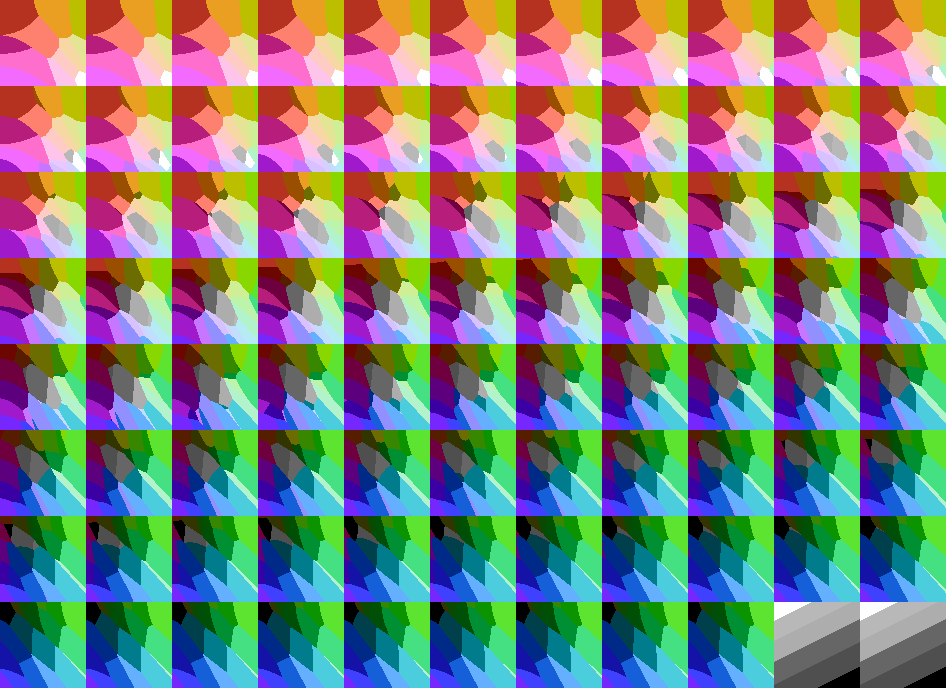
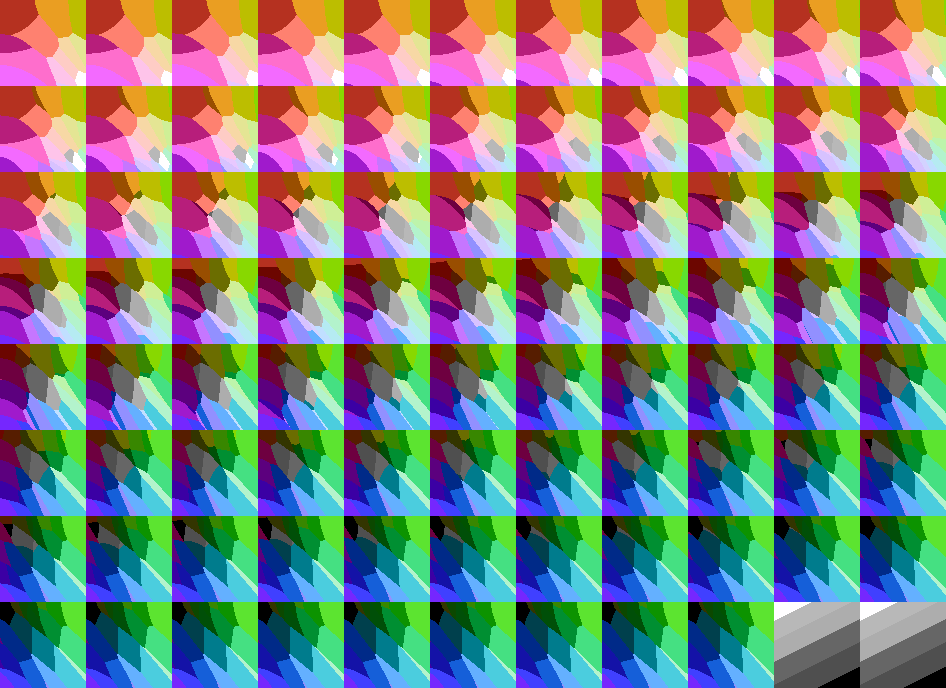
Replace Aspose with Unicolour

diff --git a/CSharpGenerator/CSharpGenerator/PaletteMatchingFunctions.cs b/CSharpGenerator/CSharpGenerator/PaletteMatchingFunctions.cs
@@ -1,4 +1,6 @@
-namespace CSharpGenerator
+using Wacton.Unicolour;
+
+namespace CSharpGenerator
 {
     internal class PaletteMatchingFunctions
     {
@@ -11,10 +13,6 @@
             if (algorithm == "RGB Redmean")
             {
                 return findNearestColorRGBRedmean(oldColor, palette);
-            }
-            if (algorithm == "HSL Difference")
-            {
-                return findNearestColorHSL(oldColor, palette);
             }
             if (algorithm == "Lab Value Difference")
             {
@@ -89,10 +87,9 @@
 
         private static Color findNearestColorLab(Color oldColor, string palette)
         {
-            (double, double, double) labColor = AsposeFunctions.getLabColor(oldColor.R, oldColor.G, oldColor.B);
-            // square root of 100^2 + 255^2 + 255^2
-            double lowestDiff = 374.23;
+            double deltaEMin = 10000; // set to a very high number that any delta can beat
             int colorIndex = 0;
+            Unicolour unicolor = ColorConversionFunctions.getUnicolorFromSystemColor(oldColor);
             Color[] targetPalette = [];
             if (palette == "NES")
             {
@@ -102,47 +99,13 @@
             {
                 targetPalette = GlobalVars.webColors;
             }
+            Unicolour[] comparisonPalette = ColorConversionFunctions.getUnicolorsFromSystemColors(targetPalette);
             for (int i = 0; i < targetPalette.Length; i++)
             {
-                Color compareColor = targetPalette[i];
-                (double, double, double) labCompare = AsposeFunctions.getLabColor(compareColor.R, compareColor.G, compareColor.B);
-                double totalDiff = Math.Sqrt(Math.Pow(labCompare.Item1 - labColor.Item1, 2) + Math.Pow(labCompare.Item2 - labColor.Item2, 2) + Math.Pow(labCompare.Item3 - labColor.Item3, 2));
-                if (totalDiff < lowestDiff)
+                double deltaE = unicolor.Difference(comparisonPalette[i], DeltaE.Cie76);
+                if (deltaE < deltaEMin)
                 {
-                    lowestDiff = totalDiff;
-                    colorIndex = i;
-                }
-            }
-
-            return targetPalette[colorIndex];
-        }
-
-        private static Color findNearestColorHSL(Color oldColor, string palette)
-        {
-            double hue = oldColor.GetHue();
-            double saturation = oldColor.GetSaturation();
-            double lightness = oldColor.GetBrightness();
-            double highestAverageDiff = Math.Sqrt(3);
-            int colorIndex = 0;
-            Color[] targetPalette = [];
-            if (palette == "NES")
-            {
-                targetPalette = GlobalVars.mesenColors;
-            }
-            if (palette == "Web Colors")
-            {
-                targetPalette = GlobalVars.webColors;
-            }
-            for (int i = 0; i < targetPalette.Length; i++)
-            {
-                Color compare = targetPalette[i];
-                double hueDiff = Math.Min(Math.Abs(compare.GetHue() - hue), 360 - Math.Abs(compare.GetHue() - hue)) / 180;
-                double satDiff = Math.Abs(compare.GetSaturation() - saturation);
-                double lightDiff = Math.Abs(compare.GetBrightness() - lightness);
-                double diffSum = Math.Sqrt(hueDiff * hueDiff + satDiff * satDiff + lightDiff * lightDiff);
-                if (diffSum < highestAverageDiff)
-                {
-                    highestAverageDiff = diffSum;
+                    deltaEMin = deltaE;
                     colorIndex = i;
                 }
             }

diff --git a/CSharpGenerator/CSharpGenerator/ColorConversionFunctions.cs b/CSharpGenerator/CSharpGenerator/ColorConversionFunctions.cs
@@ -1,0 +1,31 @@
+using System.Drawing;
+using Wacton.Unicolour;
+
+namespace CSharpGenerator
+{
+    internal class ColorConversionFunctions
+    {
+        public static Unicolour getUnicolorFromSystemColor(Color color)
+        {
+            return new Unicolour(ColourSpace.Rgb255, color.R, color.G, color.B);
+        }
+
+        public static Unicolour[] getUnicolorsFromSystemColors(Color[] colors)
+        {
+            List<Unicolour> unicolors = new List<Unicolour>();
+            foreach(Color color in colors)
+            {
+                unicolors.Add(getUnicolorFromSystemColor(color));
+            }
+
+            return unicolors.ToArray();
+        }
+
+        public static Color getSaturatedColor(float h, float s, float l)
+        {
+            Unicolour unicolor = new Unicolour(ColourSpace.Hsl, h, s, l);
+            Rgb255 rgb = unicolor.Rgb.Byte255;
+            return Color.FromArgb(rgb.R, rgb.G, rgb.B);
+        }
+    }
+}

diff --git a/CSharpGenerator/CSharpGenerator/FormMain.Designer.cs b/CSharpGenerator/CSharpGenerator/FormMain.Designer.cs
@@ -131,7 +131,7 @@
             // 
             comboBoxAlgorithm.DropDownStyle = ComboBoxStyle.DropDownList;
             comboBoxAlgorithm.FormattingEnabled = true;
-            comboBoxAlgorithm.Items.AddRange(new object[] { "RGB Euclidean", "RGB Redmean", "HSL Difference", "Lab Value Difference" });
+            comboBoxAlgorithm.Items.AddRange(new object[] { "RGB Euclidean", "RGB Redmean", "Lab Value Difference" });
             comboBoxAlgorithm.Location = new Point(12, 326);
             comboBoxAlgorithm.Name = "comboBoxAlgorithm";
             comboBoxAlgorithm.Size = new Size(236, 23);

diff --git a/CSharpGenerator/CSharpGenerator/PaletteProgrammaticFunctions.cs b/CSharpGenerator/CSharpGenerator/PaletteProgrammaticFunctions.cs
@@ -89,7 +89,7 @@
             {
                 saturation += 0.05f;
             }
-            return AsposeFunctions.getSaturatedColor(color.GetHue(), saturation, color.GetBrightness());
+            return ColorConversionFunctions.getSaturatedColor(color.GetHue(), saturation, color.GetBrightness());
         }
 
         private static Color findNearestRGBMultiple(Color oldColor, int multiple)
